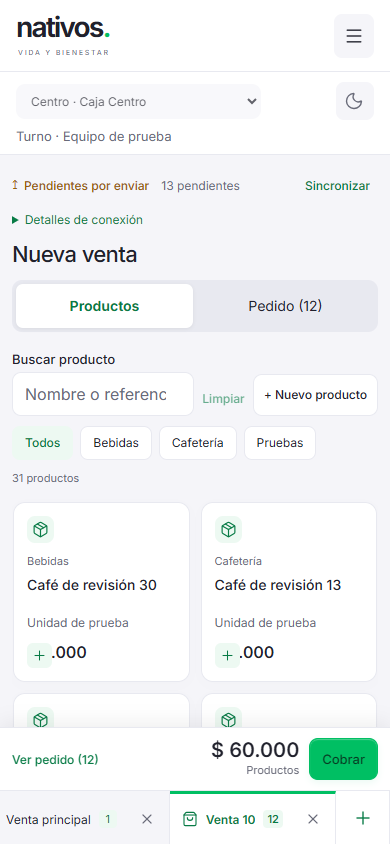
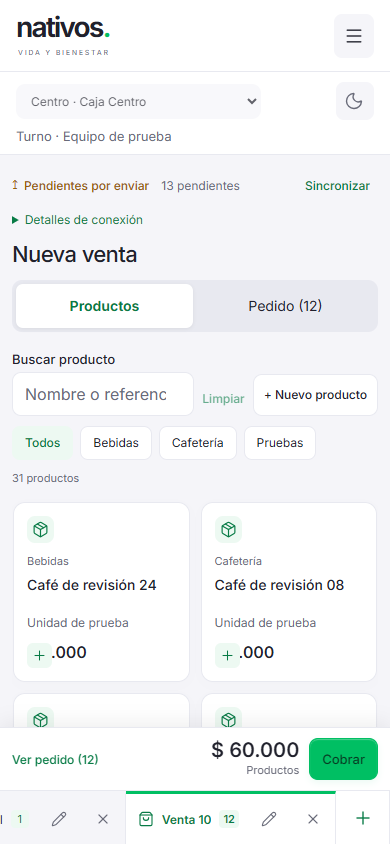
docs(caja): registrar cierre y renombrado de pestañas

diff --git a/docs/evidence/order-tabs.md b/docs/evidence/order-tabs.md
@@ -1,12 +1,13 @@
 # AC-016-08 — Pestañas de pedidos abiertos
 
-Implementado y verificado localmente el 19-09-2026. Autorización: sustituir el desplegable de pedidos por el formato de pestañas inferior de la captura de Alegra y permitir cerrarlos. Se conserva el diseño Nativos del resto de la pantalla. Sin commit, push ni despliegue de este cambio; no se operó sobre los pedidos de producción.
+Implementado y verificado inicialmente el 19-09-2026; la primera versión se publicó el 20-09-2026. El ajuste solicitado el 20-09-2026 permite cerrar la única venta virtual, elimina la confirmación para vacíos y agrega cambio de nombre. Se conserva el diseño Nativos del resto de la pantalla y no se operó sobre pedidos reales durante las pruebas.
 
 ## Comportamiento
 
-- Pestañas inferiores con Venta principal, números estables o nombre/mesa, indicador de líneas, importe en tooltip, + y cierre individual.
-- Flechas, Home/End y Supr; foco y selección conservados. La barra se desplaza sin mover el catálogo, también con muchas ventas. En móvil no cubre Cobrar.
-- Confirmación de vacío mediante order.cancel, sin borrarlo del historial ni provocar consumo o cobros. Al cerrar otra pestaña se mantiene la activa; al cerrar la activa se elige una vecina.
+- Pestañas inferiores con Venta principal, números estables o nombre/mesa, indicador de líneas, importe en tooltip, +, lápiz para renombrar y cierre individual.
+- Flechas, Home/End, F2 y Supr; foco y selección conservados. La barra se desplaza sin mover el catálogo, también con muchas ventas. En móvil no cubre Cobrar.
+- Un pedido vacío se cierra inmediatamente mediante `order.cancel`, sin diálogo, borrado, consumo ni cobro. Si la única venta aún es virtual, se guarda y cancela secuencialmente para registrar el cierre, avanzar el número y mostrar una venta nueva. Al cerrar otra pestaña se mantiene la activa; al cerrar la activa se elige una vecina.
+- El nombre editable reutiliza `OrderV2.label` y `order.save`; no agrega campos ni migraciones y se conserva offline.
 - El cierre de pedidos con productos cancela todo lo pendiente: exige motivo y permite indicar cuántas unidades enviadas ya se prepararon, conservando el desperdicio existente. Cancelación parcial de líneas sigue disponible por Quitar.
 - No hay migración de base de datos ni cambio de schemas: v2/v3 ya permitían lines vacío; se restringe en dominio a pedidos que tampoco tienen líneas. Selección y cierres se conservan en IndexedDB/outbox.
 
@@ -16,7 +17,8 @@ Implementado y verificado localmente el 19-09-2026. Autorización: sustituir el 
 - `npm.cmd test`: 50 pruebas aprobadas; incluye cierre vacío, revisión/motivo, rechazo de selección vacía con productos, numeración estable y selección vecina.
 - `node --test tests/integration/orders.test.ts`: 8 pruebas aprobadas. Nuevo escenario verifica cierre offline, repetición del mismo ID, reinicio, aceptación PostgreSQL y cero cambios en ventas/inventario.
 - `npm.cmd run build`: aprobado.
-- `npm.cmd run test:e2e`: prueba integral compuesta aprobada (2,6 minutos en ejecución final). Edge real, PostgreSQL sintético, service worker e IndexedDB; ocho pestañas adicionales, teclado/foco, confirmación descartada, cierre inactivo offline, recarga, sincronización, cierre activo, cierre de pedido con 12 líneas y regreso al original. Conserva regresión de cobros, división, preparación/desperdicio, devoluciones, puntos y recuperación offline. Axe sin infracciones en las vistas comprobadas.
+- `npm.cmd run check`: TypeScript, 50/50 pruebas unitarias, 59/59 integraciones seriales y build aprobados en un worktree limpio.
+- `npm.cmd run test:e2e`: prueba integral compuesta aprobada en la ejecución final (1,8 minutos). Edge real, PostgreSQL sintético, service worker e IndexedDB; ocho pestañas adicionales, cierre vacío inmediato online/offline, recarga, cierre de la única venta virtual, número nuevo y cambio de nombre. Conserva regresión de cobros, división, preparación/desperdicio, devoluciones, puntos y recuperación offline. Axe sin infracciones en las vistas comprobadas.
 - Escritorio 1366×768, tablet 1024×768 y móvil 390×844 en claro/oscuro; catálogo largo y pedido largo, sin desbordar documento ni tapar cobro.
 - Revisión directa adicional con Playwright CLI y otra base sintética en 4322: activar una caja nueva, + desde venta virtual, cerrar ambas pestañas vacías, recargar y comprobar una venta nueva disponible con 0 pendientes y sin resucitar las anteriores. La revisión visual motivó ajustar el desplazamiento de la pestaña activa al redimensionar para conservar visible su botón de cierre.
 

diff --git a/specs/016-caja-ui/tasks.md b/specs/016-caja-ui/tasks.md
@@ -8,6 +8,6 @@
 | TASK-016-04 | Estados, razones y ayuda accesible | 06/07 | Completada |
 | TASK-016-05 | Regresiones, navegador y evidencia visual | 01–07 | Completada |
 | TASK-016-06 | Pestañas inferiores, cierre seguro de vacíos y selección persistente; regresiones y capturas | 08/07 | Completada localmente |
-| TASK-016-07 | Cierre inmediato de vacíos, cierre de la única venta virtual y cambio de nombre accesible | 08 | En curso |
+| TASK-016-07 | Cierre inmediato de vacíos, cierre de la única venta virtual y cambio de nombre accesible | 08 | Completada y verificada |
 
 Evidencia: [comprobaciones, escenarios y capturas](../../docs/evidence/caja-ui.md).
